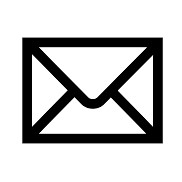
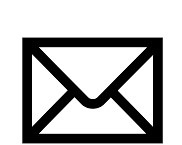
changed colour palette, worked on contact

diff --git a/css/assignmentstyle.css b/css/assignmentstyle.css
@@ -12,8 +12,8 @@ header{
 }
 
 header label.logo{
-  color: white !important;
-  text-decoration: none !important;
+  color: white;
+  text-decoration: none;
   font-size: 35px;
   line-height: 100px;
   padding: 0 100px;
@@ -79,7 +79,7 @@ header label a{
 
 header li a{
 	text-align: center;
-	color: #86c7ed;
+	color: #bddff4;
 	text-decoration: none;
 	font-family: 'Calibri', sans-serif;
 	font-size: 1.2vw; 
@@ -91,7 +91,7 @@ header li a{
 }
 
 header ul a:hover{
-	background-color: #8c52ff;
+	background-color: #86c7ed;
 	transition: 0.5s;
 }
 
@@ -110,25 +110,25 @@ header ul a:hover{
 }
 
 @media (max-width: 1228px){
-	label.logo{
-		font-size: 30px;
-		padding: 0 75px;
-		transition: all 0.5s;
+	header label.logo{
+		font-size: 35px;
+		padding: 0 80px;
+		transition: all 0.2s;
 	}
 	header ul{
-		margin-right: 80px;
+		margin-right: 50px;
 		transition: all 0.2s;
 	}
 }
 
-@media (max-width: 1080px){
-	label.logo{
+@media (max-width: 1090px){
+	header label.logo{
 		font-size: 30px;
-		padding: 0 50px;
-		transition: all 0.3s;
+		padding: 0 60px;
+		transition: all 0.2s;
 	}
 	header ul{
-		margin-right: 60px;
+		margin-right: 20px;
 		padding: 0;
 		transition: all 0.2s;
 	}
@@ -143,6 +143,7 @@ header ul a:hover{
 	}
 	ul{
 		position: fixed;
+		
 		width: 100%;
 		height: 100vh;
 		background: #86c7ed;
@@ -156,9 +157,16 @@ header ul a:hover{
 		display: block;
 		margin: 50px 0;
 		line-height: 30px;
+		transition: all 0.1s;
 	}
 	nav ul li a{
 		font-size: 20px;
+		color: #1836b2;
+		transition: all 0.2s;
+	}
+	nav ul a:hover{
+		background-color: #bddff4;
+		transition: 0.5s;
 	}
 	#check:checked ~ ul{
 		left: 0;
@@ -229,6 +237,11 @@ main li{
 	list-style: none;
 	font-size: 18px;
 	font-family: Calibri, sans-serif;
+}
+
+main li.contact img{
+	max-height: 18px;
+	max-width: 18px;
 }
 
 footer{

diff --git a/contact.html b/contact.html
@@ -39,16 +39,16 @@
 		You can contact me here at these links:
 	</h2>
 		<li class="contact">
-			<img src="img/emailicon"> Email: <a href="https://www.youtube.com/watch?v=xvFZjo5PgG0" target="_blank" title="Email">kevin.tran103@education.nsw.gov.au</a>
+			<img src="img/emailicon.jpg"> Email: <a href="https://www.youtube.com/watch?v=xvFZjo5PgG0" target="_blank" title="Email address">kevin.tran103@education.nsw.gov.au</a>
 		</li>
 		<li class="contact">
-			<img src="img/phone-icon"> Phone: 0444 444 444
+			<img src="img/phone-icon.jpg"> Phone: +61 742 527 859
 		</li>
 		<li class="contact">
-			Email: <a href="https://www.youtube.com/watch?v=xvFZjo5PgG0" target="_blank" title="Email">kevin.tran103@education.nsw.gov.au</a>
+			<img src="img/insta-icon.jpg"> Instagram: <a href="https://www.instagram.com/officialrickastley/" target="_blank" title="Instagram username">KevinTranIG</a>
 		</li>
 		<li class="contact">
-			Email: <a href="https://www.youtube.com/watch?v=xvFZjo5PgG0" target="_blank" title="Email">kevin.tran103@education.nsw.gov.au</a>
+			<img src="img/youtube-icon.jpg"> YouTube: <a href="https://www.youtube.com/c/RickastleyCoUkOfficial" target="_blank" title="YouTube username">KevinTranYT</a>
 		</li>
 
 	</div>

diff --git a/about.html b/about.html
@@ -35,7 +35,7 @@
 		About Me
 		</h1>
 	<p>
-		This portfolio will showcase the work, goals and achievements of HAHS student, Kevin Tran.
+		bubblewrap
 	</p>
 	</div>
 </main>
